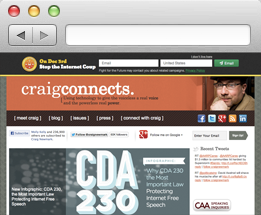
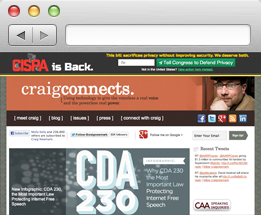
add compressor, update frontpage for CISPA campaign

Changed region(s): [[0.0, 0.2233, 1.0, 0.3628]]

diff --git a/internetdefense/templates/index.html b/internetdefense/templates/index.html
@@ -5,9 +5,9 @@
     <div class="wrap" id="intro">
         <h1 id="logo">Internet Defense League</h1>
         <h2 class="montserrat">Join our campaigns for Internet freedom!</h2>
-
+        <p class="update"><strong>UPDATE!</strong> The Cat Signal is launching Tuesday, March 19th to sound the alarm about CISPA, the bill that could END privacy. <a href="http://www.cispaisback.org">Learn more here</a>. Get the code below to take part. Contact us with any questions: <a href="mailto:team@fightforthefuture.org">team@fightforthefuture.org</a></p>
         <div class="indent dark large">
-            <h3 class="montserrat">Get the code for your site. <a href="https://github.com/fightforthefuture/internet_defense_league">GitHub</a></h3>
+            <h3 class="montserrat">Get the code for your site:</h3>
             <textarea name="output" readonly>{% include "include.html" %}</textarea>
         </div>
 
@@ -41,7 +41,7 @@
                 <div class="small">
                     <span class="inputs">
                         <input type="radio" name="campaign" id="single" value="" />
-                        <label for="single" class="montserrat">Just for ITU</label>
+                        <label for="single" class="montserrat">Just for CISPA</label>
                     </span>
                     <p class="description">Code is live as soon as you add it, but you'll have to update it for each new campaign.</p>
                     <fieldset style="display: none;">
@@ -107,6 +107,8 @@
         <div class="column">
             <h3>Are you a developer?</h3>
             <p>Join the project to build the flexible JavaScript tools that make the Defense League tick.</p>
+            
+            
             <ul class="footer-nav">
                 <li><a href="https://github.com/fightforthefuture/internet_defense_league" class="dev"><img src="{{ SECURE_STATIC_URL }}img/idl_resources/github.png" alt="GitHub"> <span>GITHUB</span></a></li>
                 <li><a href="https://groups.google.com/forum/?fromgroups#!forum/internetdefenseleague" class="dev"><img src="{{ SECURE_STATIC_URL }}img/idl_resources/google.png" alt="Google Group"><span>GOOGLE GROUP</span></a></li>

diff --git a/internetdefense/templates/base.html b/internetdefense/templates/base.html
@@ -5,9 +5,14 @@
     <meta http-equiv="X-UA-Compatible" content="IE=edge">
     <link rel="icon" type="image/png"  href="{{ SECURE_STATIC_URL }}idl.png">
     <title>{% block title %}The Internet Defense League - Protecting the Free Internet since 2012.{% endblock title %}</title>
+    {% load compress %}
+    {% compress css %}
     <link href="{{ SECURE_STATIC_URL}}css/one.css" rel="stylesheet" type="text/css">
+    {%  endcompress %}
     <link href='https://fonts.googleapis.com/css?family=Montserrat' rel='stylesheet' type='text/css'>
+    {% compress js %}
     <script src="{{ SECURE_STATIC_URL }}js/customize.js" async="async"></script>
+    {% endcompress %}
     <meta property="og:title" content="Want to help defend the internet from censorship and broken legislation? Join me in the Internet Defense League! If we act together, we can save the net." />
           <meta property="og:description" content="The Internet Defense League is a group of sites simultaneously sound the alarm when powerful interests try to take control of the internet. Think the SOPA blackout, but larger and even more unstoppable. We have big plans that you can be a part of. Register your site now!" />
           <meta property="og:image" content="{{ SECURE_STATIC_URL }}images/fb_share.png" />

diff --git a/internetdefense/apps/campaigns/static/campaigns/cispa/modal/modal.css b/internetdefense/apps/campaigns/static/campaigns/cispa/modal/modal.css
@@ -54,9 +54,10 @@ p#international {
     line-height: 100%;
     color: #ffffff;
     text-align: center;
-    font-size: 16px;
+    font-size: 14px;
     width: 560px;
     padding: 0 20px;
+	margin-top: -5px;
 }
 
 a {
@@ -144,3 +145,6 @@ input.error{
     input.error:-ms-input-placeholder {
         color: red;
     }
+
+
+#idl_alert {height: 1000px; padding-bottom: 100px;}

diff --git a/internetdefense/static/js/src/customize.js b/internetdefense/static/js/src/customize.js
@@ -52,7 +52,7 @@
 
             singleCampaign.bind('change', function(evt){
                 // singleCampaign.attr('value', campaignChoice.val());
-                   singleCampaign.attr('value', 'itu')
+                   singleCampaign.attr('value', 'cispa')
                 self.update();
             });
 

diff --git a/internetdefense/static/css/one.css b/internetdefense/static/css/one.css
@@ -1755,3 +1755,5 @@ h2.montserrat,h3.montserrat {text-align: center; width: 100%; margin: 0 auto;}
 								background: #eee; border: #ccc 1px solid;
 								padding: 5px;
 								color: #000;}
+								
+								p.update {font-size: 16px; line-height: 1.5; margin: 20px auto; width: 80%;}

diff --git a/internetdefense/settings/base.py b/internetdefense/settings/base.py
@@ -77,6 +77,7 @@ INSTALLED_APPS = [
     'analytics',
     'include',
     'ip2geo',
+    'compressor',
 ]
 TEMPLATE_CONTEXT_PROCESSORS = [
     'django.contrib.auth.context_processors.auth',
@@ -99,3 +100,9 @@ ROOT_URLCONF = 'urls'
 INTERNAL_IPS = ('127.0.0.1',)
 MESSAGE_STORAGE = 'django.contrib.messages.storage.session.SessionStorage'
 BROKER_BACKEND = 'django'
+
+STATICFILES_FINDERS = (
+    'django.contrib.staticfiles.finders.FileSystemFinder',
+    'django.contrib.staticfiles.finders.AppDirectoriesFinder',
+    'compressor.finders.CompressorFinder',
+)

diff --git a/internetdefense/apps/include/views.py b/internetdefense/apps/include/views.py
@@ -18,13 +18,13 @@ class CustomizeView(TemplateView):
     """
     template_name = 'index.html'
 
-    @method_decorator(cache_page(60 * 60 * 24 * 365))
+    #@method_decorator(cache_page(60 * 60 * 24 * 365))
     def dispatch(self, *args, **kwargs):
         """
         Caches the view for 365 days.
         """
         return super(CustomizeView, self).dispatch(*args, **kwargs)
-
+    
     def get_context_data(self, **kwargs):
         """
         Adds QuerySets of all active campaigns and presentational variants to
